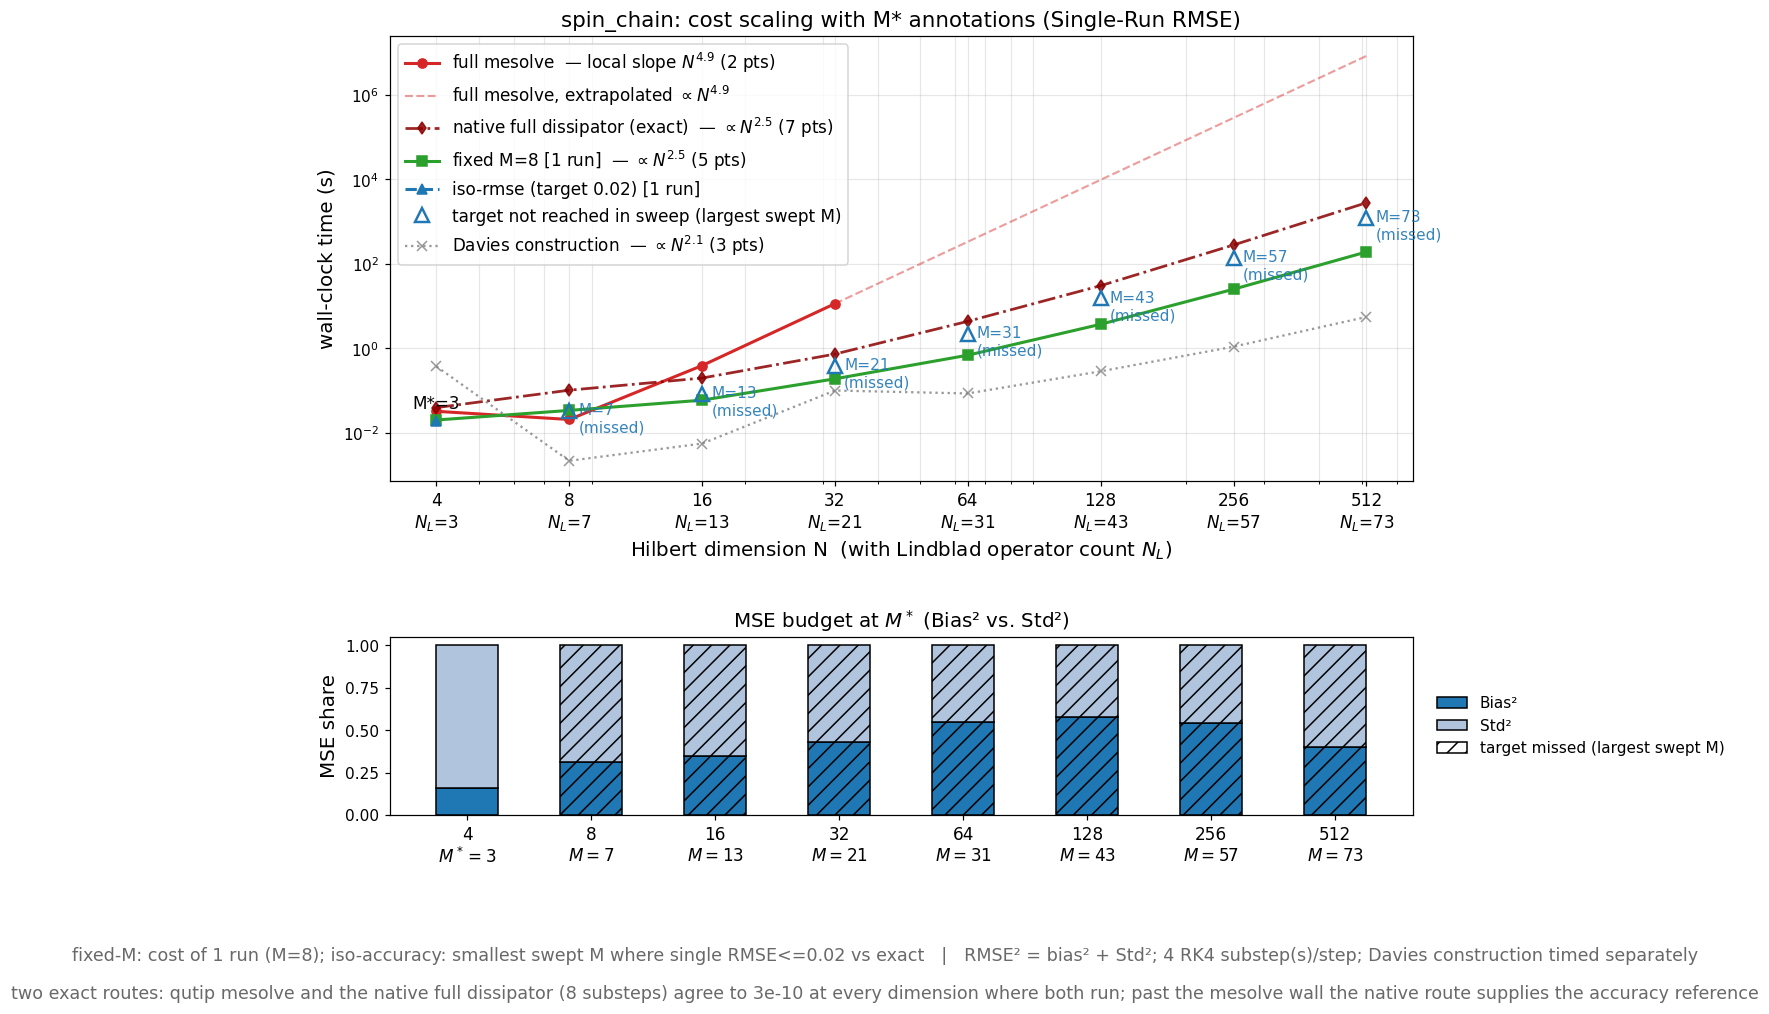
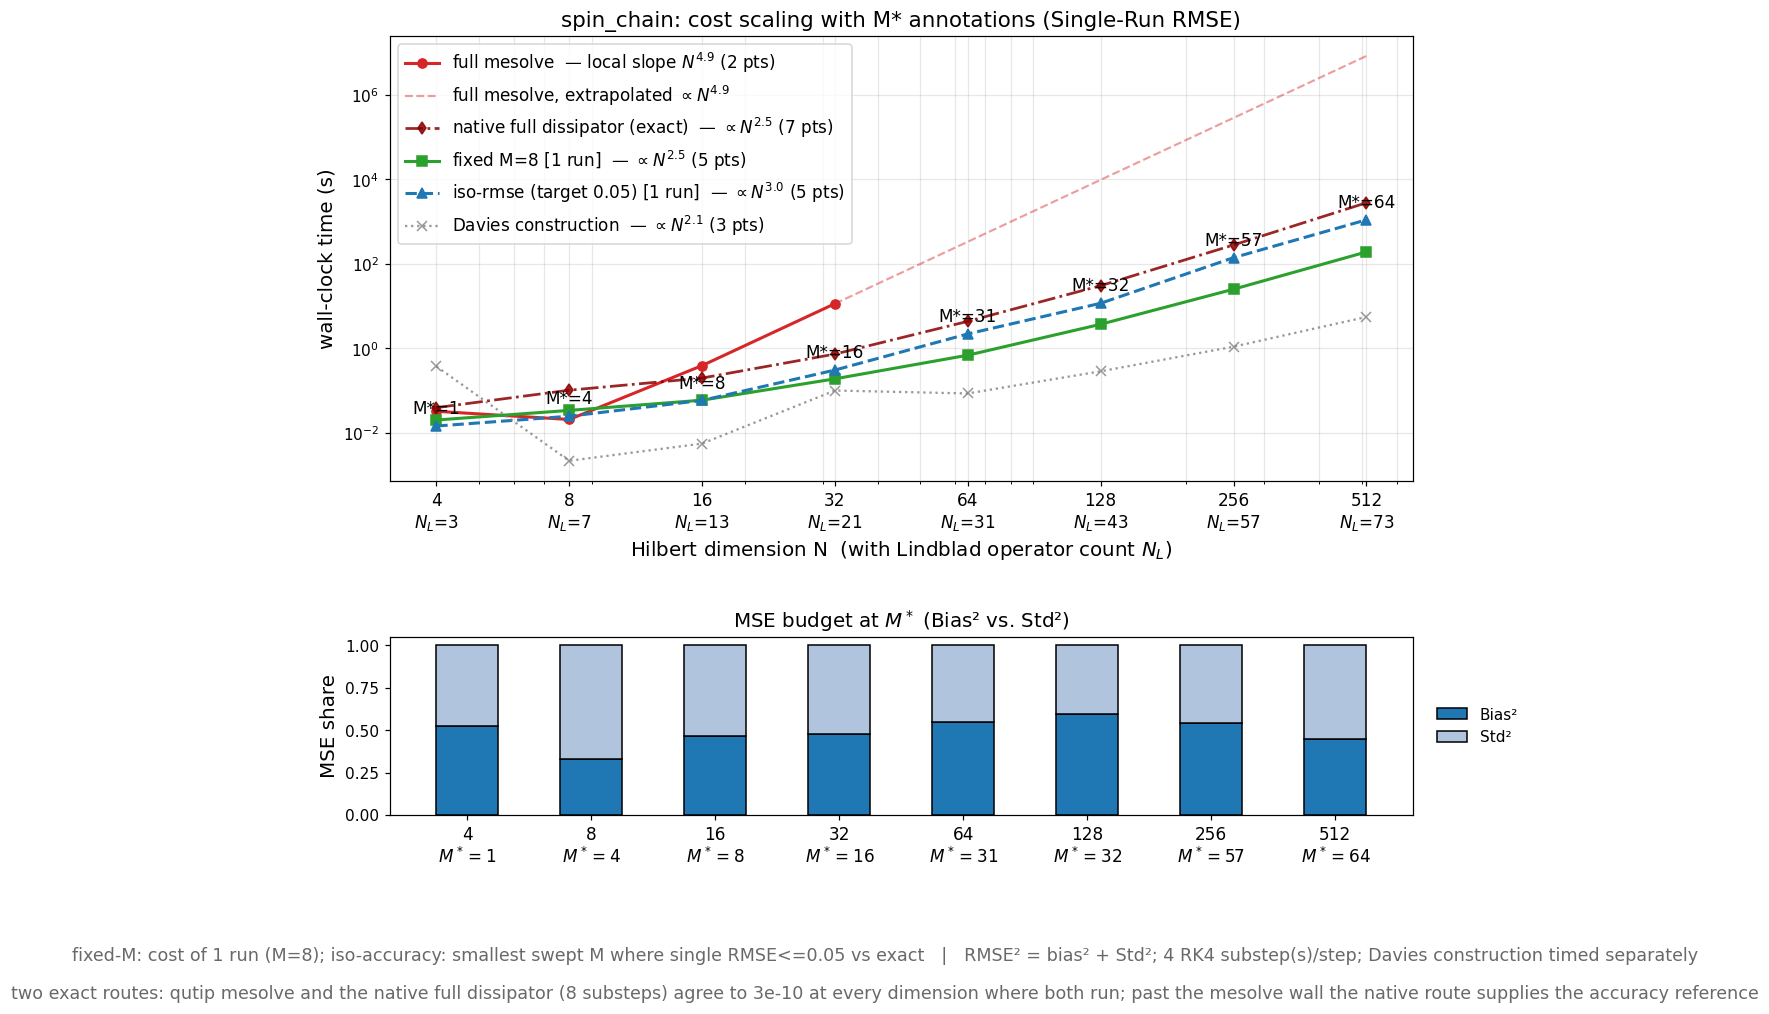
System A's iso target to 0.05, which turns an empty curve into a result
At 0.02 this system missed the target at every dimension except 4, so its
iso-accuracy curve was eight hollow markers and no line. That says only
"impossible" and measures nothing. The miss is structural rather than a short
sweep: M can never exceed N_L, and even M = N_L parks between 0.024 and 0.029
across dim 8 to 512 -- always just above the line, never reaching it.

Per-system targets are already how this figure works; the oscillator has run at
0.005 since it was added, because M* = 1 clears 0.02 everywhere and the looser
target measured nothing there either. The stale config comment claimed 0.02 was
discriminating on the spin chain, which was true under the old inflated N_L of
113 and false since the 0.6.4 correction dropped it to 31.

At 0.05 every dimension reaches, and the curve says something sharper than
impossible: M* tracks N_L almost exactly -- 1/3, 4/7, 8/13, 16/21, 31/31, 32/43,
57/57, 64/73, equal at dims 64 and 256. Reaching even a loose target costs
essentially every operator, which is the no-compression claim measured instead
of asserted.

The slopes make the point harder still. System A's iso curve fits N^3.0 against
N^2.5 for its exact solver, so holding accuracy fixed makes bundling grow FASTER
than solving exactly; the two curves converge and past some dimension the exact
route wins outright. That is the clearest statement in the document of where
this method should not be used, and it only became visible once the curve had
points on it.
[…]

diff --git a/benchmarks/plot_cost_scaling.py b/benchmarks/plot_cost_scaling.py
@@ -17,14 +17,29 @@ import numpy as np
 from common import add_settings_footer, as_array, load_data
 
 # --- CONFIGURATION ---
-# Iso-accuracy target per system. The spin chain's M* ladder climbs with
-# size at 0.02, so that target is discriminating there. The oscillator
-# needs FEWER bundles as it grows (M*=1 clears 0.02 by dim 64), so a
-# tighter 0.005 target keeps the iso curve meaningful -- every dimension's
-# committed sweep already contains an M that reaches it.
+# Iso-accuracy target per system. The target is not a claim about absolute
+# accuracy -- it fixes a common operating point so SLB and mcsolve are compared
+# doing the same job. It is chosen per system so the iso curve carries
+# information, and the three values differ by two orders of magnitude, which is
+# itself a result:
+#
+#   System C, 0.005  -- a TIGHTER target is needed, because M*=1 clears 0.02 at
+#                       every size and the curve would be a flat, useless line.
+#   System B, 0.02   -- discriminating as it stands: M* climbs 4 -> 64.
+#   System A, 0.05   -- a LOOSER target is needed. At 0.02 this system misses at
+#                       every dimension except 4, because M can never exceed N_L
+#                       and even M = N_L parks just above the target (0.024 to
+#                       0.029 across dims 8-512). An all-missed curve says only
+#                       "impossible". At 0.05 it becomes quantitative and says
+#                       something sharper: M* ~ N_L (1/3, 8/13, 31/31, 57/57,
+#                       64/73), i.e. essentially every operator is needed. That
+#                       IS the no-compression result, measured rather than
+#                       asserted.
+#
+# Quote the target whenever quoting a speedup from these panels; a cost at 0.05
+# is not comparable with a cost at 0.005.
 TARGET_VAL = 0.02
-# The mixed chain shares the chain target: same observable, same scale.
-TARGET_BY_SYSTEM = {"spin_chain": 0.02, "mixed_chain": 0.02,
+TARGET_BY_SYSTEM = {"spin_chain": 0.05, "mixed_chain": 0.02,
                     "oscillator_bath": 0.005}
 
 # Which estimate's error defines M*?

diff --git a/benchmarks/BENCHMARKS.md b/benchmarks/BENCHMARKS.md
@@ -1388,14 +1388,39 @@ This is what keeps the chain's iso-accuracy slope near $N^{2.4}$ rather than $N^
 holding accuracy costs about one extra power of $N$. But it still sits far below
 the exact solver, so SLB's advantage survives the honest accounting. It is
 computable only up to the reference wall, since tuning $M^\ast$ needs the exact
-answer. (The target is applied per system, since the three have very different
-bias scales: $0.02$ on the chain, where it produces the climbing $M^\ast$
-ladder above, and a tighter $0.005$ on the oscillator, whose bias is small
-enough that the looser target was met with a single bundle at most sizes and so
-measured nothing. At $0.005$ the oscillator ladder is $8/4/4/2$ across dim
-16–128 — nearly flat, consistent with a system whose bundling bias barely
-grows with size, and the reason its iso and fixed $M$ curves sit close
-together rather than the iso curve rising above.)
+**The target is chosen per system, and the three values are themselves a
+result.** A target is not a claim about absolute accuracy; it fixes a common
+operating point so that SLB and the exact route are compared doing the same job.
+It has to be picked so the iso curve carries information, and what each system
+requires differs by two orders of magnitude:
+
+| | target | why that value |
+|---|---|---|
+| **A** TFIM chain | $0.05$ | **looser.** At $0.02$ this system misses at every dimension but the smallest — $M$ can never exceed $N_L$, and even $M=N_L$ parks between $0.024$ and $0.029$ across dim 8–512. |
+| **B** mixed chain | $0.02$ | discriminating as it stands: $M^\ast$ climbs $4\to64$. |
+| **C** oscillator | $0.005$ | **tighter.** $M^\ast=1$ clears $0.02$ at every size, so the looser target measured nothing. |
+
+**Read System A's row as the finding it is.** It needs a target three times
+looser than System B and ten times looser than System C — and even then
+$M^\ast$ tracks $N_L$ almost exactly: $1/3$, $4/7$, $8/13$, $16/21$, $31/31$,
+$32/43$, $57/57$, $64/73$. At dims 64 and 256 the two are *equal*. Reaching a
+loose target on this system costs essentially every operator, which is the
+no-compression claim measured rather than asserted.
+
+The slopes make the same point more sharply. System A's iso-accuracy curve fits
+$N^{3.0}$ while its exact solver fits $N^{2.5}$: **holding accuracy fixed makes
+bundling grow faster than solving exactly.** The two curves are converging, and
+past some dimension the exact route simply wins. That is the clearest statement
+available of where this method should not be used — and it is the control system
+behaving exactly as a control should.
+
+At $0.005$ the oscillator ladder is $8/4/4/2$ across dim 16–128 — nearly flat,
+consistent with a system whose bundling bias barely grows with size, and the
+reason its iso and fixed $M$ curves sit close together rather than the iso curve
+rising above.
+
+**Quote the target whenever quoting a speedup from these panels.** A cost at
+$0.05$ is not comparable with a cost at $0.005$.
 
 On the oscillator's iso curve the dim-8 point is drawn as a hollow marker: at
 that smallest size the single-run RMSE reaches $0.005$ only at $M=8$, one step
